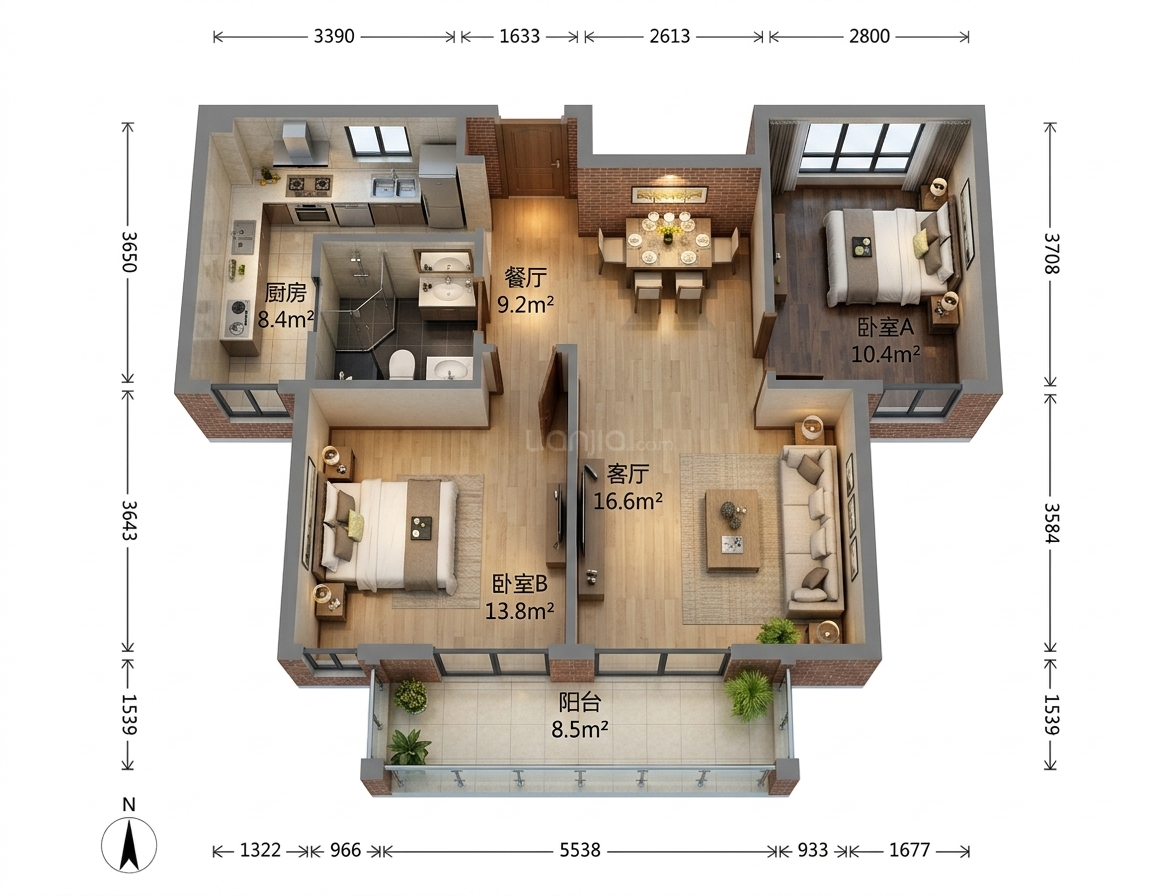
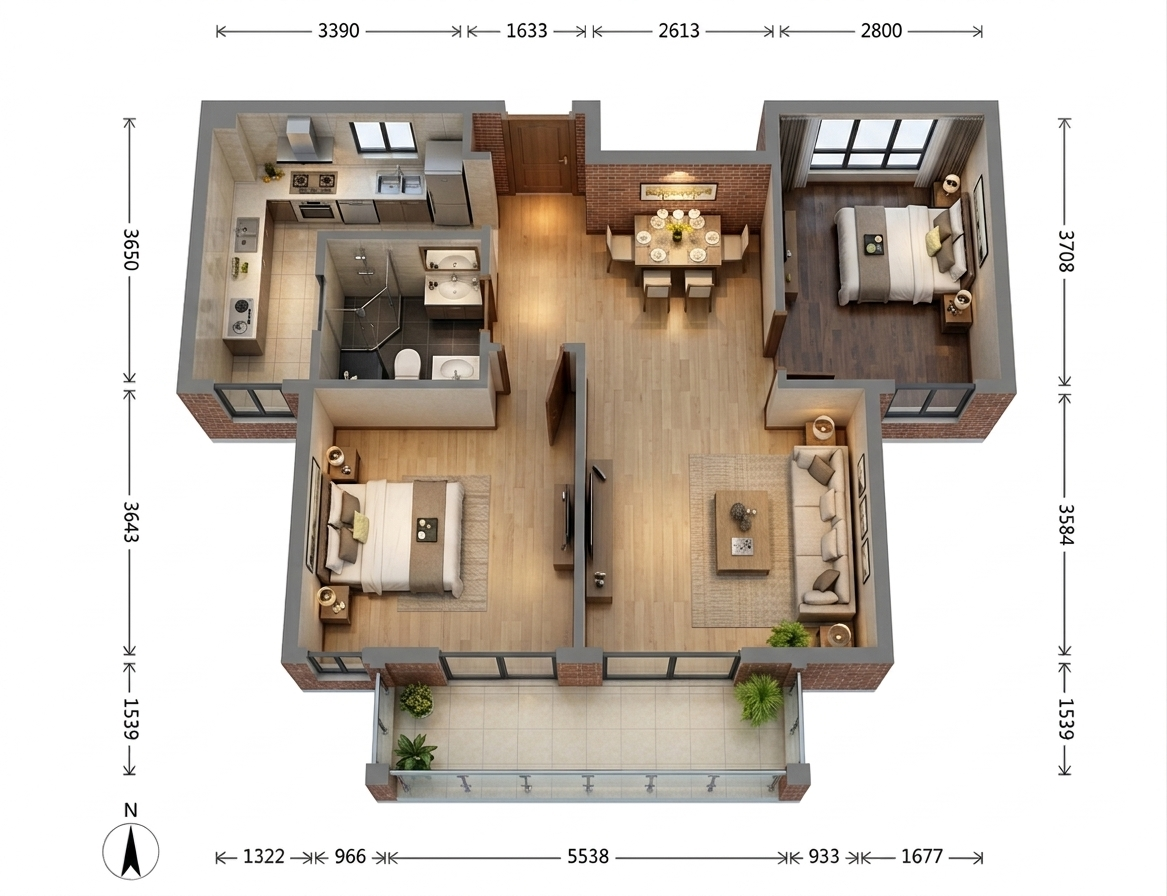
添加列表展示样式，替换户型图

diff --git a/frontend/src/pages/index/index.vue b/frontend/src/pages/index/index.vue
@@ -30,11 +30,18 @@
 
     <view class="room-section">
       <view class="section-header">
-        <text class="section-title">户型图</text>
-        <text class="section-subtitle">点击光点进入房间</text>
+        <text class="section-title">房间管理</text>
+        <view class="view-toggle">
+          <view class="toggle-btn" :class="{ active: viewMode === 'plan' }" @click="viewMode = 'plan'">
+            <text class="toggle-icon">🏠</text>
+          </view>
+          <view class="toggle-btn" :class="{ active: viewMode === 'list' }" @click="viewMode = 'list'">
+            <text class="toggle-icon">📋</text>
+          </view>
+        </view>
       </view>
 
-      <view class="fp-wrapper" :style="{ height: wrapperH + 'px' }">
+      <view v-if="viewMode === 'plan'" class="fp-wrapper" :style="{ height: wrapperH + 'px' }">
         <view class="fp-scaler" :style="{ transform: 'scale(' + fpScale + ')' }">
           <view class="fp-container">
             <view class="fp-bg" />
@@ -75,6 +82,37 @@
               </view>
             </view>
           </view>
+        </view>
+      </view>
+
+      <view v-else class="room-list">
+        <view
+          v-for="marker in markers"
+          :key="marker.id"
+          class="room-list-item"
+          :style="{ '--item-color': marker.color }"
+          @click="goToRoom(marker.id)"
+        >
+          <view class="list-color-bar" />
+          <view class="list-content">
+            <view class="list-main">
+              <text class="list-icon">{{ marker.icon }}</text>
+              <view class="list-info">
+                <text class="list-name">{{ marker.name }}</text>
+                <text class="list-area">{{ marker.area }}m²</text>
+              </view>
+              <view class="list-stats">
+                <view class="list-count-badge">
+                  <text class="list-count">{{ getRoomItemCount(marker.id) }}</text>
+                  <text class="list-count-label">件</text>
+                </view>
+              </view>
+            </view>
+            <view v-if="marker.categories" class="list-categories">
+              <text v-for="(cat, ci) in marker.categories.split('、')" :key="ci" class="cat-tag">{{ cat }}</text>
+            </view>
+          </view>
+          <text class="list-arrow">›</text>
         </view>
       </view>
     </view>
@@ -125,37 +163,37 @@ interface Marker {
 
 const markers: Marker[] = [
   {
-    id: 'room-005', name: '', icon: '🍳', area: 8.4,
+    id: 'room-005', name: '厨房', icon: '🍳', area: 8.4,
     color: '#E89A50', categories: '厨具、调料、餐具',
     cx: 26.8, cy: 19.8,
   },
   {
-    id: 'room-006', name: '', icon: '🚿', area: 4.4,
+    id: 'room-006', name: '卫生间', icon: '🚿', area: 4.4,
     color: '#64A0DC', categories: '洗浴用品、清洁工具',
     cx: 33.2, cy: 33.5,
   },
   {
-    id: 'room-001', name: '', icon: '🛏', area: 13.8,
+    id: 'room-001', name: '主卧', icon: '🛏', area: 13.8,
     color: '#A078C8', categories: '衣物、床品、收纳',
     cx: 33.2, cy: 57.5,
   },
   {
-    id: 'room-004', name: '', icon: '🍽', area: 9.2,
+    id: 'room-004', name: '餐厅', icon: '🍽', area: 9.2,
     color: '#D2AA5A', categories: '餐具、餐椅、装饰',
     cx: 55.8, cy: 33.5,
   },
   {
-    id: 'room-003', name: '', icon: '🛋', area: 16.6,
+    id: 'room-003', name: '客厅', icon: '🛋', area: 16.6,
     color: '#50BEB4', categories: '沙发、电视、玩具',
     cx: 55.8, cy: 58.5,
   },
   {
-    id: 'room-002', name: '', icon: '🌙', area: 10.4,
+    id: 'room-002', name: '次卧', icon: '🌙', area: 10.4,
     color: '#DC8296', categories: '衣物、床品、书籍',
     cx: 74.2, cy: 33.5,
   },
   {
-    id: 'room-007', name: '', icon: '🌿', area: 8.5,
+    id: 'room-007', name: '阳台', icon: '🌿', area: 8.5,
     color: '#64BE82', categories: '绿植、晾衣架、储物',
     cx: 49.2, cy: 78.8,
   },
@@ -165,6 +203,7 @@ const rooms = ref<Room[]>([])
 const persons = ref<Person[]>([])
 const selectedPerson = ref<string>('')
 const activeMarker = ref<string>('')
+const viewMode = ref<'plan' | 'list'>('plan')
 const screenWidth = ref(375)
 
 const fpScale = computed(() => {
@@ -329,6 +368,140 @@ function goToStatistics() {
 
 .room-section {
   margin-top: 20rpx;
+}
+
+.view-toggle {
+  display: flex;
+  background: #f0f1f3;
+  border-radius: 10rpx;
+  padding: 4rpx;
+}
+
+.toggle-btn {
+  display: flex;
+  align-items: center;
+  justify-content: center;
+  width: 56rpx;
+  height: 44rpx;
+  border-radius: 8rpx;
+  transition: all 0.25s ease;
+
+  &.active {
+    background: #ffffff;
+    box-shadow: 0 2rpx 8rpx rgba(0, 0, 0, 0.1);
+  }
+}
+
+.toggle-icon {
+  font-size: 28rpx;
+}
+
+.room-list {
+  display: flex;
+  flex-direction: column;
+  gap: 16rpx;
+}
+
+.room-list-item {
+  display: flex;
+  align-items: stretch;
+  background: #ffffff;
+  border-radius: 16rpx;
+  box-shadow: 0 2rpx 12rpx rgba(0, 0, 0, 0.06);
+  overflow: hidden;
+  transition: all 0.25s ease;
+
+  &:active {
+    transform: scale(0.98);
+  }
+}
+
+.list-color-bar {
+  width: 6rpx;
+  background: var(--item-color);
+  flex-shrink: 0;
+}
+
+.list-content {
+  flex: 1;
+  padding: 24rpx 20rpx;
+  display: flex;
+  flex-direction: column;
+  gap: 10rpx;
+}
+
+.list-main {
+  display: flex;
+  align-items: center;
+  gap: 16rpx;
+}
+
+.list-icon {
+  font-size: 40rpx;
+}
+
+.list-info {
+  flex: 1;
+  display: flex;
+  flex-direction: column;
+}
+
+.list-name {
+  font-size: 30rpx;
+  font-weight: 600;
+  color: #333333;
+}
+
+.list-area {
+  font-size: 22rpx;
+  color: #999999;
+  margin-top: 2rpx;
+}
+
+.list-stats {
+  flex-shrink: 0;
+}
+
+.list-count-badge {
+  display: flex;
+  align-items: baseline;
+  gap: 2rpx;
+  background: color-mix(in srgb, var(--item-color) 12%, transparent);
+  padding: 8rpx 16rpx;
+  border-radius: 12rpx;
+}
+
+.list-count {
+  font-size: 32rpx;
+  font-weight: 700;
+  color: var(--item-color);
+}
+
+.list-count-label {
+  font-size: 20rpx;
+  color: #999999;
+}
+
+.list-categories {
+  display: flex;
+  flex-wrap: wrap;
+  gap: 8rpx;
+}
+
+.cat-tag {
+  font-size: 20rpx;
+  color: #888888;
+  background: #f5f6f7;
+  padding: 4rpx 12rpx;
+  border-radius: 8rpx;
+}
+
+.list-arrow {
+  display: flex;
+  align-items: center;
+  padding: 0 20rpx;
+  font-size: 36rpx;
+  color: #cccccc;
 }
 
 .fp-wrapper {
